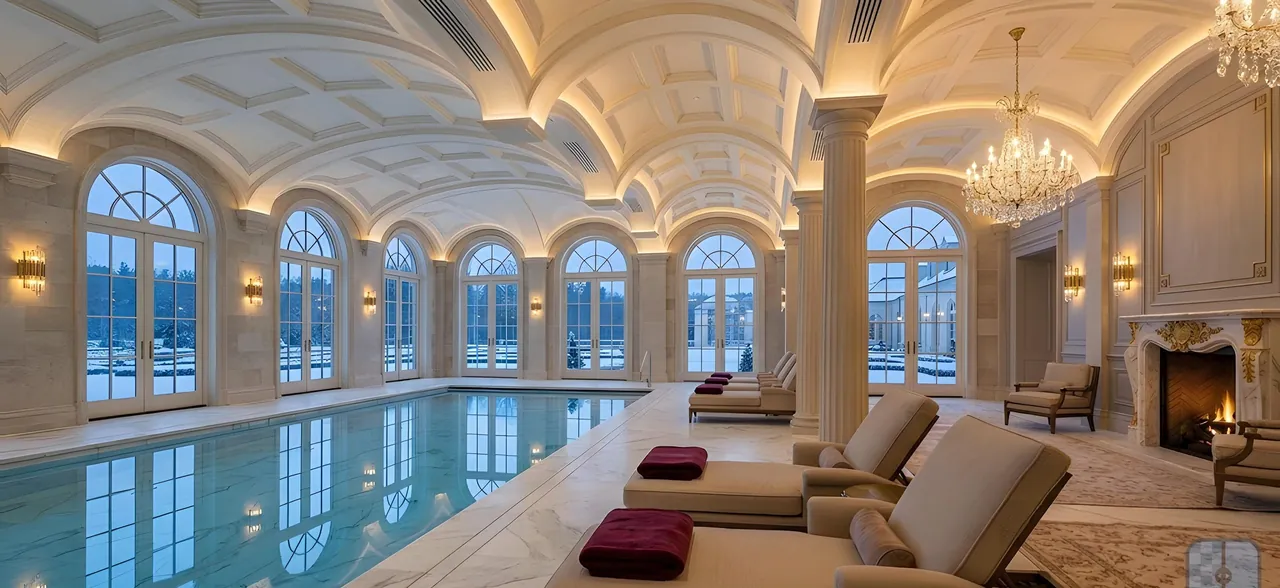
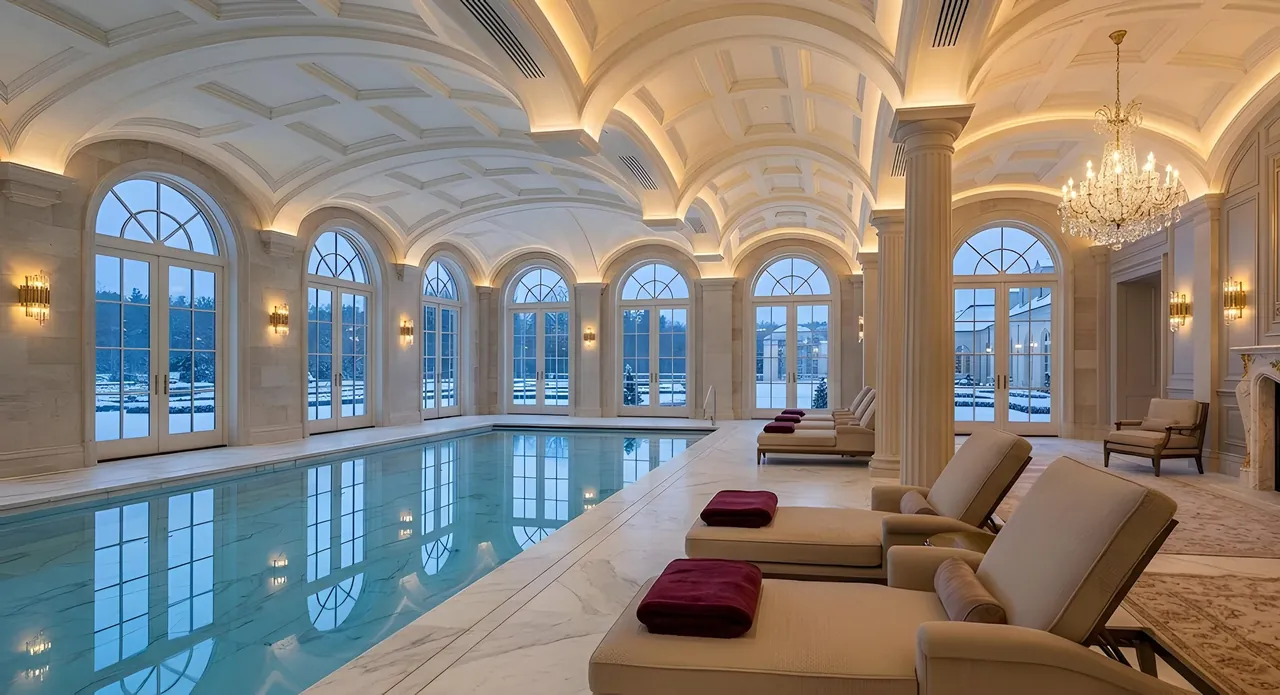
Первые экраны: Дизайнеру — винный погреб, Монтажникам — дом в стройке, Владельцу — салон с камином; значок Gemini срезан у всех старых кадров

diff --git a/site/dizayneru.html b/site/dizayneru.html
@@ -105,7 +105,7 @@
 <main>
 <section class="hero page-hero">
   <div class="slides" id="slides" role="group" aria-label="Фото">
-      <figure class="ph slide has-photo is-on light"><picture><source srcset="img/slides/s3-m.webp 1280w, img/slides/s3.webp 2560w" sizes="100vw" type="image/webp"><img src="img/slides/s3.jpg" srcset="img/slides/s3-m.jpg 1280w, img/slides/s3.jpg 2560w" sizes="100vw" alt="" style="object-position:50% 60%" fetchpriority="high"></picture></figure>
+      <figure class="ph slide has-photo is-on light"><picture><source srcset="img/slides/h-diz-m.webp 1280w, img/slides/h-diz.webp 2560w" sizes="100vw" type="image/webp"><img src="img/slides/h-diz.jpg" srcset="img/slides/h-diz-m.jpg 1280w, img/slides/h-diz.jpg 2560w" sizes="100vw" alt="" style="object-position:50% 55%" fetchpriority="high"></picture></figure>
     </div>
   <div class="wrap">
     <div class="hero-text">

diff --git a/site/montazhnikam.html b/site/montazhnikam.html
@@ -105,7 +105,7 @@
 <main>
 <section class="hero page-hero">
   <div class="slides" id="slides" role="group" aria-label="Фото">
-      <figure class="ph slide has-photo is-on"><picture><source srcset="img/slides/s4-m.webp 1280w, img/slides/s4.webp 2560w" sizes="100vw" type="image/webp"><img src="img/slides/s4.jpg" srcset="img/slides/s4-m.jpg 1280w, img/slides/s4.jpg 2560w" sizes="100vw" alt="" style="object-position:50% 60%" fetchpriority="high"></picture></figure>
+      <figure class="ph slide has-photo is-on light"><picture><source srcset="img/slides/h-mont-m.webp 1280w, img/slides/h-mont.webp 2560w" sizes="100vw" type="image/webp"><img src="img/slides/h-mont.jpg" srcset="img/slides/h-mont-m.jpg 1280w, img/slides/h-mont.jpg 2560w" sizes="100vw" alt="" style="object-position:50% 45%" fetchpriority="high"></picture></figure>
     </div>
   <div class="wrap">
     <div class="hero-text">

diff --git a/site/vladelcu.html b/site/vladelcu.html
@@ -105,7 +105,7 @@
 <main>
 <section class="hero page-hero">
   <div class="slides" id="slides" role="group" aria-label="Фото">
-      <figure class="ph slide has-photo is-on"><picture><source srcset="img/slides/s1-m.webp 1280w, img/slides/s1.webp 2560w" sizes="100vw" type="image/webp"><img src="img/slides/s1.jpg" srcset="img/slides/s1-m.jpg 1280w, img/slides/s1.jpg 2560w" sizes="100vw" alt="" style="object-position:62% 55%" fetchpriority="high"></picture></figure>
+      <figure class="ph slide has-photo is-on"><picture><source srcset="img/slides/h-vl-m.webp 1280w, img/slides/h-vl.webp 2560w" sizes="100vw" type="image/webp"><img src="img/slides/h-vl.jpg" srcset="img/slides/h-vl-m.jpg 1280w, img/slides/h-vl.jpg 2560w" sizes="100vw" alt="" style="object-position:50% 55%" fetchpriority="high"></picture></figure>
     </div>
   <div class="wrap">
     <div class="hero-text">

diff --git a/site/usluga-ventilyaciya.html b/site/usluga-ventilyaciya.html
@@ -119,7 +119,7 @@
   </div>
   <div class="cw-media">
     <div class="slides" id="slides" role="group" aria-label="Фото">
-      <figure class="ph slide has-photo is-on"><picture><source srcset="img/slides/s3-m.webp 1280w, img/slides/s3.webp 2560w" sizes="100vw" type="image/webp"><img src="img/slides/s3.jpg" srcset="img/slides/s3-m.jpg 1280w, img/slides/s3.jpg 2560w" sizes="100vw" alt="" style="object-position:50% 55%" fetchpriority="high"></picture></figure>
+      <figure class="ph slide has-photo is-on"><picture><source srcset="img/slides/h-vl-m.webp 1280w, img/slides/h-vl.webp 2560w" sizes="100vw" type="image/webp"><img src="img/slides/h-vl.jpg" srcset="img/slides/h-vl-m.jpg 1280w, img/slides/h-vl.jpg 2560w" sizes="100vw" alt="" style="object-position:50% 55%" fetchpriority="high"></picture></figure>
     </div>
   </div>
 </section>

diff --git a/site/usluga-osushenie-basseyna.html b/site/usluga-osushenie-basseyna.html
@@ -119,7 +119,7 @@
   </div>
   <div class="cw-media">
     <div class="slides" id="slides" role="group" aria-label="Фото">
-      <figure class="ph slide has-photo is-on"><picture><source srcset="img/slides/s6-m.webp 1280w, img/slides/s6.webp 2560w" sizes="100vw" type="image/webp"><img src="img/slides/s6.jpg" srcset="img/slides/s6-m.jpg 1280w, img/slides/s6.jpg 2560w" sizes="100vw" alt="" style="object-position:50% 60%" fetchpriority="high"></picture></figure>
+      <figure class="ph slide has-photo is-on"><picture><source srcset="img/slides/n09-m.webp 1280w, img/slides/n09.webp 2560w" sizes="100vw" type="image/webp"><img src="img/slides/n09.jpg" srcset="img/slides/n09-m.jpg 1280w, img/slides/n09.jpg 2560w" sizes="100vw" alt="" style="object-position:50% 60%" fetchpriority="high"></picture></figure>
     </div>
   </div>
 </section>

diff --git a/site/build.py b/site/build.py
@@ -497,7 +497,7 @@ def proof(extra="", title="Своё производство климата",
 
 # ===== Тексты страниц =====
 PAGES = [
- dict(file="vladelcu.html", who="sobstvennik", img="s1", pos="62% 55%",
+ dict(file="vladelcu.html", who="sobstvennik", img="h-vl", pos="50% 55%",
   title="Дом под ключ для владельца — Frivent",
   desc="Загородный дом под ключ с одним ответственным менеджером: архитектура, стройка, вся инженерия, климат собственного производства, интерьер и сервис. Новая Рига, Рублёвка, Ильинское шоссе.",
   eyebrow="Владельцу дома",
@@ -597,7 +597,7 @@ PAGES = [
   ],
   form=dict(title="Вызвать инженера на диагностику", button="Вызвать инженера")),
 
- dict(file="dizayneru.html", who="dizayner", img="s3", pos="50% 60%", light=True,
+ dict(file="dizayneru.html", who="dizayner", img="h-diz", pos="50% 55%", light=True,
   title="Комплектация для дизайнера и архитектора — Frivent",
   desc="Отделочные материалы, текстиль, стекло, свет и мебель для загородных интерьеров строго по спецификации дизайнера. Сроки в договоре, образцы, вознаграждение открыто.",
   eyebrow="Дизайнеру и архитектору",
@@ -641,7 +641,7 @@ PAGES = [
   ],
   form=dict(title="Запросить условия для дизайнеров", button="Запросить условия")),
 
- dict(file="montazhnikam.html", who="montazh", img="s4", pos="50% 60%",
+ dict(file="montazhnikam.html", who="montazh", img="h-mont", pos="50% 45%", light=True,
   title="Оборудование для монтажных компаний — Frivent",
   desc="Постоянный поставщик для монтажных и климатических компаний: вентиляция с рекуперацией, осушение бассейнов, кондиционирование Frivent. Поставка к графику монтажа, документы к сдаче, пусконаладка производителем.",
   eyebrow="Монтажной и инженерной компании",

diff --git a/site/uslugi_content.py b/site/uslugi_content.py
@@ -20,7 +20,7 @@ STAGES = [
 ]
 
 USLUGI = [
- dict(slug="ventilyaciya", img="s3", pos="50% 55%",
+ dict(slug="ventilyaciya", img="h-vl", pos="50% 55%",
   name="Вентиляция с рекуперацией",
   title="Вентиляция загородного дома с рекуперацией — Frivent",
   desc="Приточно-вытяжная вентиляция с рекуперацией тепла для загородного дома: своё производство Frivent, проект, монтаж, пусконаладка и сервис. Новая Рига, Рублёвка, Ильинское шоссе.",
@@ -47,7 +47,7 @@ USLUGI = [
        ("Будет ли слышно установку в спальне?", "Шум считаем на этапе проекта под каждую комнату и проверяем после пусконаладки."),
        ("Обслуживаете вентиляцию других марок?", "Да, любое европейское оборудование: обслуживаем, ремонтируем, находим запчасти или заменяем.")]),
 
- dict(slug="osushenie-basseyna", img="s6", pos="50% 60%",
+ dict(slug="osushenie-basseyna", img="n09", pos="50% 60%",
   name="Осушение бассейна и СПА",
   title="Осушение воздуха в бассейне и СПА загородного дома — Frivent Aquavent",
   desc="Осушение и вентиляция частного бассейна, СПА и хамама: установки Aquavent собственного производства Frivent, расчёт, монтаж, пусконаладка, сервис. Новая Рига, Рублёвка.",
